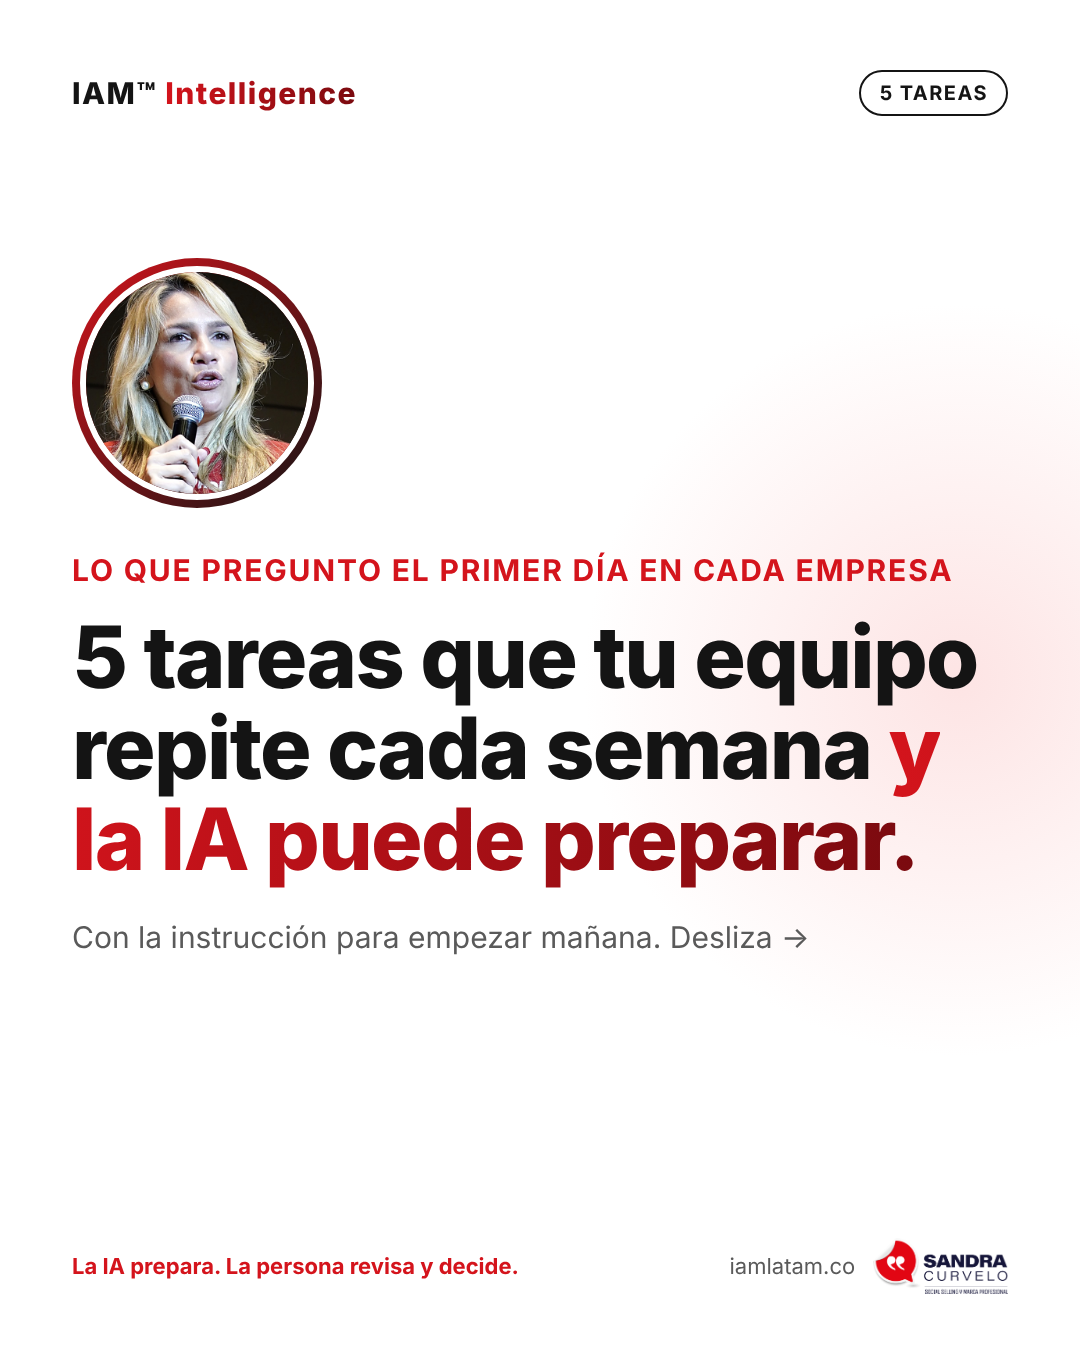
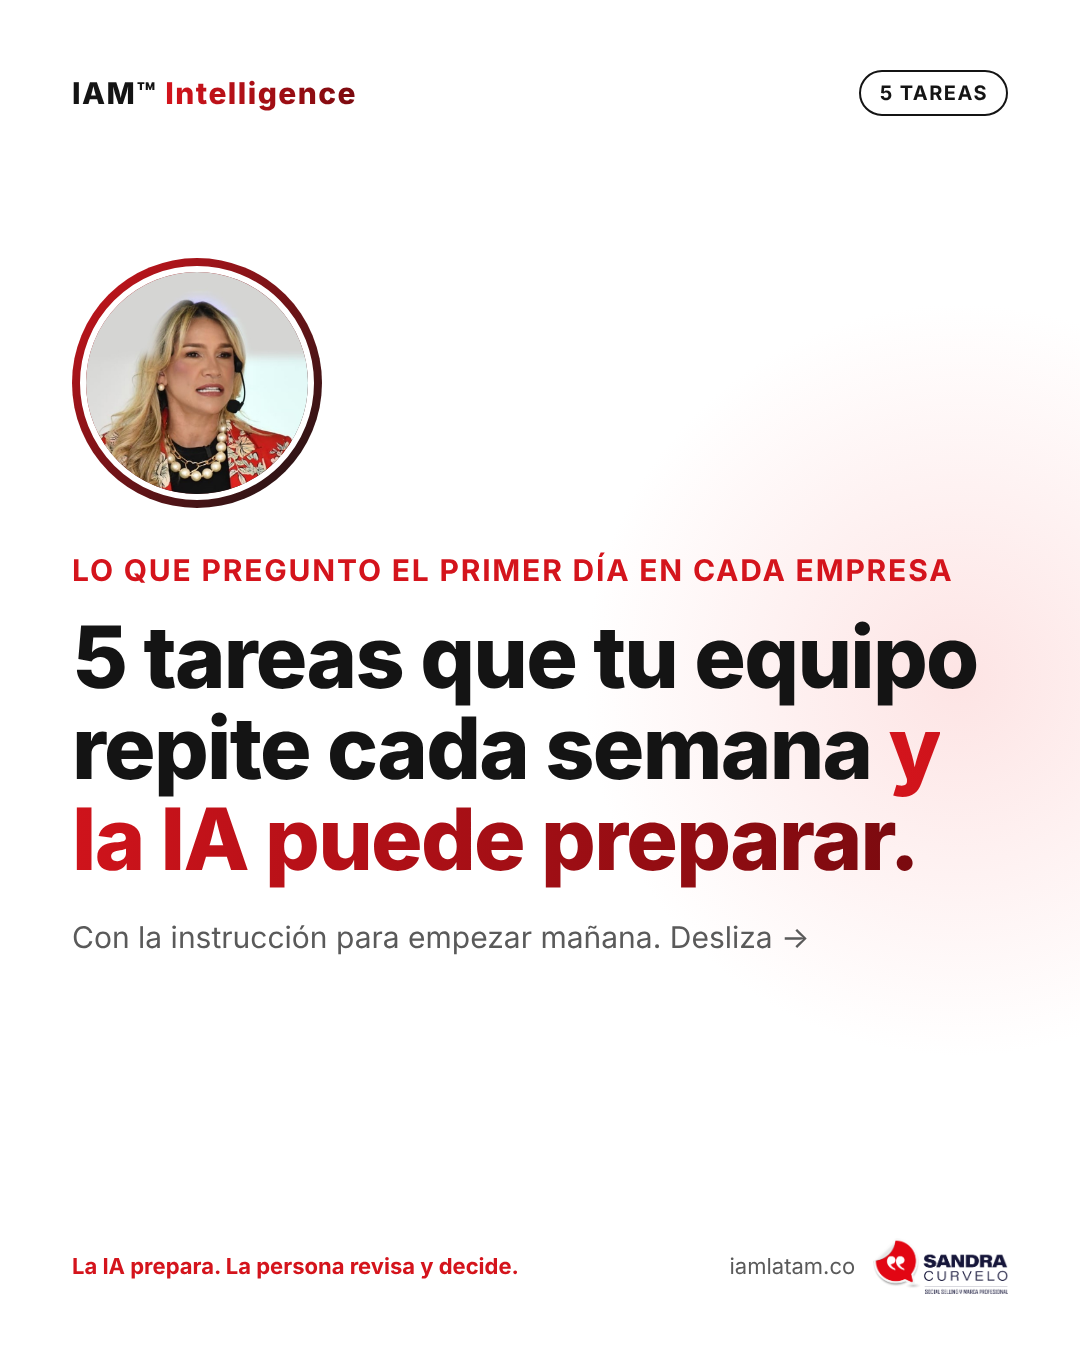
Carrusel 5 tareas: fotos de conferencias en portada y cierre
Claude-Session: https://claude.ai/code/session_01Tmne2aLNP1UGqMwJXFqoP3

Changed region(s): [[0.0611, 0.1867, 0.3056, 0.3733]]

diff --git a/contenido-linkedin/imagenes/semana-6/t6b.html b/contenido-linkedin/imagenes/semana-6/t6b.html
@@ -6,9 +6,9 @@ h1{font-size:66px;line-height:1.06;margin-top:40px;font-weight:800;letter-spacin
 .brand{font-size:30px;font-weight:800}.ai{position:relative;margin:0 0 50px 30px;width:340px;height:340px;z-index:2}
 .ai .r1,.ai .r2{position:absolute;inset:0;border-radius:50%;border:3px dashed #d4141c}.ai .r2{inset:22px;border:2px solid #141414;border-style:dotted}
 .ai .ph{position:absolute;inset:40px;border-radius:50%;overflow:hidden;border:5px solid #fff;box-shadow:0 0 0 3px #d4141c,0 0 40px rgba(212,20,28,.35)}
-.ai .ph img{width:100%;height:100%;object-fit:cover;object-position:50% 22%;transform:scale(1.9);transform-origin:49% 30%}
+.ai .ph img{width:100%;height:100%;object-fit:cover;object-position:50% 50%}
 .ai .ph:after{content:"";position:absolute;inset:0;background:repeating-linear-gradient(0deg,rgba(212,20,28,.16) 0 2px,transparent 2px 7px),linear-gradient(180deg,transparent 55%,rgba(212,20,28,.35))}
 .ai .nd{position:absolute;width:14px;height:14px;border-radius:50%;background:#d4141c}
 .ai .bot{position:absolute;left:-30px;bottom:-6px;width:130px;height:130px;background:#141414;border-radius:50%;display:flex;align-items:center;justify-content:center;border:5px solid #fff}
-</style></head><body><div class="glow"></div><div class="z top"><div class="brand">IAM™ <span class="g">Intelligence</span></div><div class="tag">5 TAREAS</div></div><div class="z" style="margin-top:auto;margin-bottom:auto"><div class="ai"><div class="r1"></div><div class="r2"></div><div class="ph"><img src="sandra.jpg"></div><div class="nd" style="left:163px;top:-7px"></div><div class="nd" style="right:-7px;top:163px"></div><div class="nd" style="left:40px;top:40px;background:#141414"></div><div class="bot"><svg width="80" height="80" viewBox="0 0 80 80"><line x1="40" y1="6" x2="40" y2="18" stroke="#fff" stroke-width="4"/><circle cx="40" cy="6" r="5" fill="#d4141c"/><rect x="12" y="18" width="56" height="42" rx="12" fill="#fff"/><circle cx="29" cy="38" r="7" fill="#d4141c"/><circle cx="51" cy="38" r="7" fill="#d4141c"/><rect x="28" y="50" width="24" height="4" rx="2" fill="#141414"/><rect x="2" y="32" width="8" height="14" rx="3" fill="#fff"/><rect x="70" y="32" width="8" height="14" rx="3" fill="#fff"/><rect x="22" y="62" width="36" height="12" rx="4" fill="#d4141c"/></svg></div></div><div style="font-size:80px;font-weight:800;line-height:1.08;letter-spacing:-.02em">La regla es la misma en las 5:<br><span class="g">la IA prepara, la persona revisa y decide.</span></div>
+</style></head><body><div class="glow"></div><div class="z top"><div class="brand">IAM™ <span class="g">Intelligence</span></div><div class="tag">5 TAREAS</div></div><div class="z" style="margin-top:auto;margin-bottom:auto"><div class="ai"><div class="r1"></div><div class="r2"></div><div class="ph"><img src="sandra-b.jpg"></div><div class="nd" style="left:163px;top:-7px"></div><div class="nd" style="right:-7px;top:163px"></div><div class="nd" style="left:40px;top:40px;background:#141414"></div><div class="bot"><svg width="80" height="80" viewBox="0 0 80 80"><line x1="40" y1="6" x2="40" y2="18" stroke="#fff" stroke-width="4"/><circle cx="40" cy="6" r="5" fill="#d4141c"/><rect x="12" y="18" width="56" height="42" rx="12" fill="#fff"/><circle cx="29" cy="38" r="7" fill="#d4141c"/><circle cx="51" cy="38" r="7" fill="#d4141c"/><rect x="28" y="50" width="24" height="4" rx="2" fill="#141414"/><rect x="2" y="32" width="8" height="14" rx="3" fill="#fff"/><rect x="70" y="32" width="8" height="14" rx="3" fill="#fff"/><rect x="22" y="62" width="36" height="12" rx="4" fill="#d4141c"/></svg></div></div><div style="font-size:80px;font-weight:800;line-height:1.08;letter-spacing:-.02em">La regla es la misma en las 5:<br><span class="g">la IA prepara, la persona revisa y decide.</span></div>
 <div style="font-size:36px;color:#5a5a5a;margin-top:40px">¿Cuál de las 5 se come más horas de tu equipo?</div></div><div class="z foot"><div class="s">Sandra Curvelo · IAM™</div><div style="display:flex;align-items:center;gap:18px">iamlatam.co<img src="logo-sandra-oscuro.png" style="height:56px"></div></div></body></html>

diff --git a/contenido-linkedin/imagenes/semana-6/t0b.html b/contenido-linkedin/imagenes/semana-6/t0b.html
@@ -3,6 +3,6 @@
 .top{display:flex;justify-content:space-between;align-items:center;font-size:24px;font-weight:700;letter-spacing:.06em}.tag{border:2px solid #141414;padding:9px 18px;border-radius:40px;font-size:20px}
 h1{font-size:66px;line-height:1.06;margin-top:40px;font-weight:800;letter-spacing:-.02em}.g{background:linear-gradient(90deg,#d4141c,#7a0a0f);-webkit-background-clip:text;color:transparent}
 .sub{font-size:28px;color:#5a5a5a;margin-top:18px;line-height:1.35}.foot{margin-top:auto;display:flex;justify-content:space-between;align-items:center;font-size:22px;color:#5a5a5a}.foot .s{color:#d4141c;font-weight:700}
-.brand{font-size:30px;font-weight:800}.av{width:250px;height:250px;border-radius:50%;padding:8px;background:linear-gradient(135deg,#d4141c,#141414);margin-bottom:44px}.av .in{width:100%;height:100%;border-radius:50%;overflow:hidden;border:6px solid #fff}.av img{width:100%;height:100%;object-fit:cover;object-position:50% 22%;transform:scale(1.9);transform-origin:49% 30%}</style></head><body><div class="glow"></div><div class="z top"><div class="brand">IAM™ <span class="g">Intelligence</span></div><div class="tag">5 TAREAS</div></div><div class="z" style="margin-top:auto;margin-bottom:auto"><div class="av"><div class="in"><img src="sandra.jpg"></div></div><div style="font-size:30px;color:#d4141c;font-weight:700;letter-spacing:.06em">LO QUE PREGUNTO EL PRIMER DÍA EN CADA EMPRESA</div>
+.brand{font-size:30px;font-weight:800}.av{width:250px;height:250px;border-radius:50%;padding:8px;background:linear-gradient(135deg,#d4141c,#141414);margin-bottom:44px}.av .in{width:100%;height:100%;border-radius:50%;overflow:hidden;border:6px solid #fff}.av img{width:100%;height:100%;object-fit:cover;object-position:50% 50%}</style></head><body><div class="glow"></div><div class="z top"><div class="brand">IAM™ <span class="g">Intelligence</span></div><div class="tag">5 TAREAS</div></div><div class="z" style="margin-top:auto;margin-bottom:auto"><div class="av"><div class="in"><img src="sandra-a.jpg"></div></div><div style="font-size:30px;color:#d4141c;font-weight:700;letter-spacing:.06em">LO QUE PREGUNTO EL PRIMER DÍA EN CADA EMPRESA</div>
 <div style="font-size:86px;font-weight:800;line-height:1.06;margin-top:24px;letter-spacing:-.02em">5 tareas que tu equipo repite cada semana <span class="g">y la IA puede preparar.</span></div>
 <div style="font-size:30px;color:#5a5a5a;margin-top:34px">Con la instrucción para empezar mañana. Desliza →</div></div><div class="z foot"><div class="s">La IA prepara. La persona revisa y decide.</div><div style="display:flex;align-items:center;gap:18px">iamlatam.co<img src="logo-sandra-oscuro.png" style="height:56px"></div></div></body></html>
